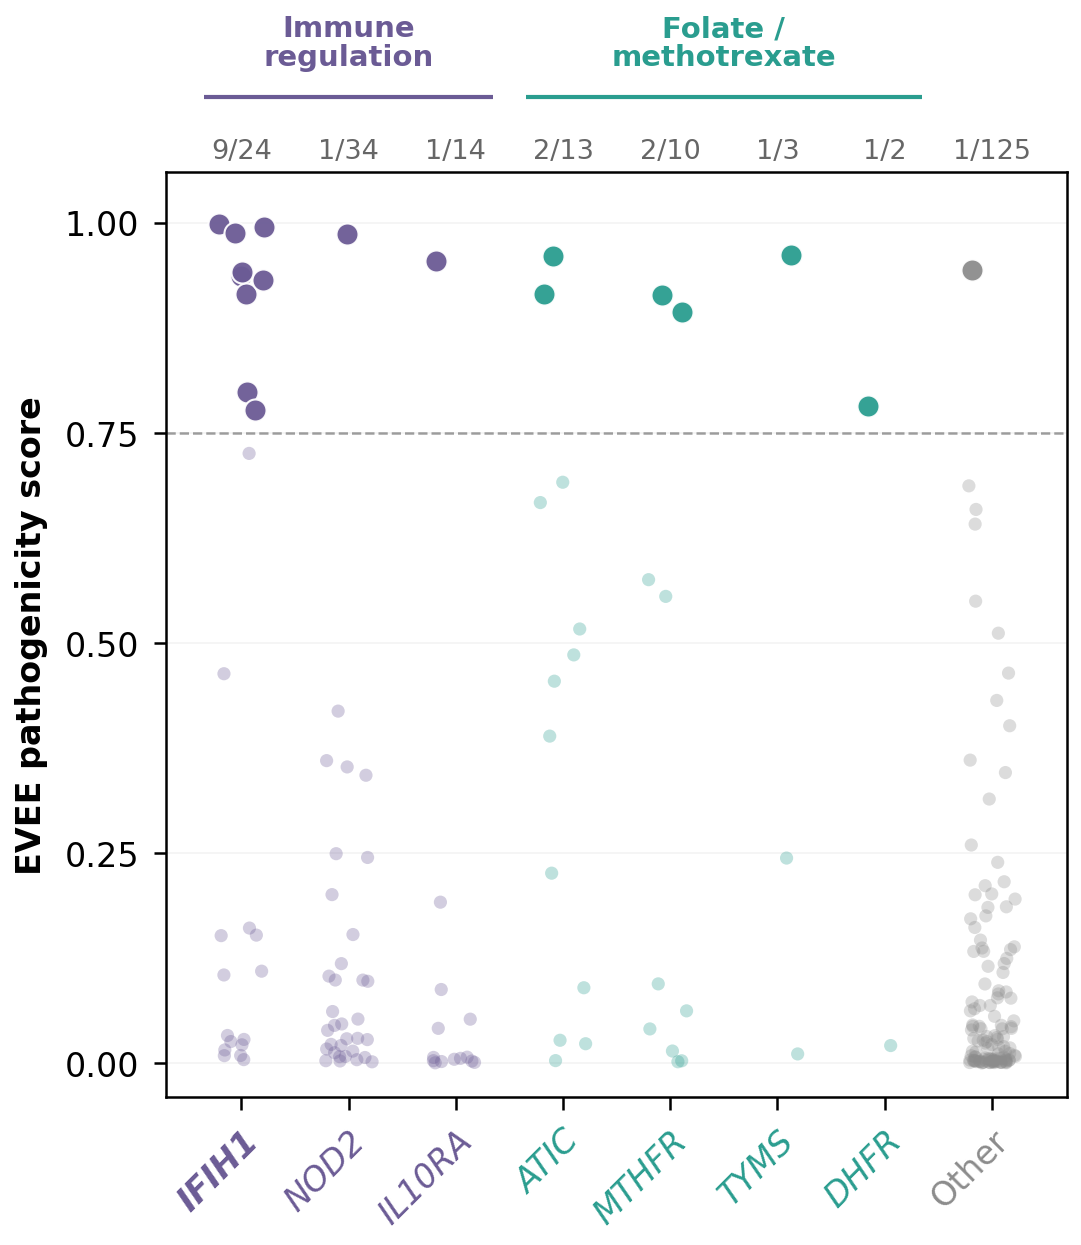
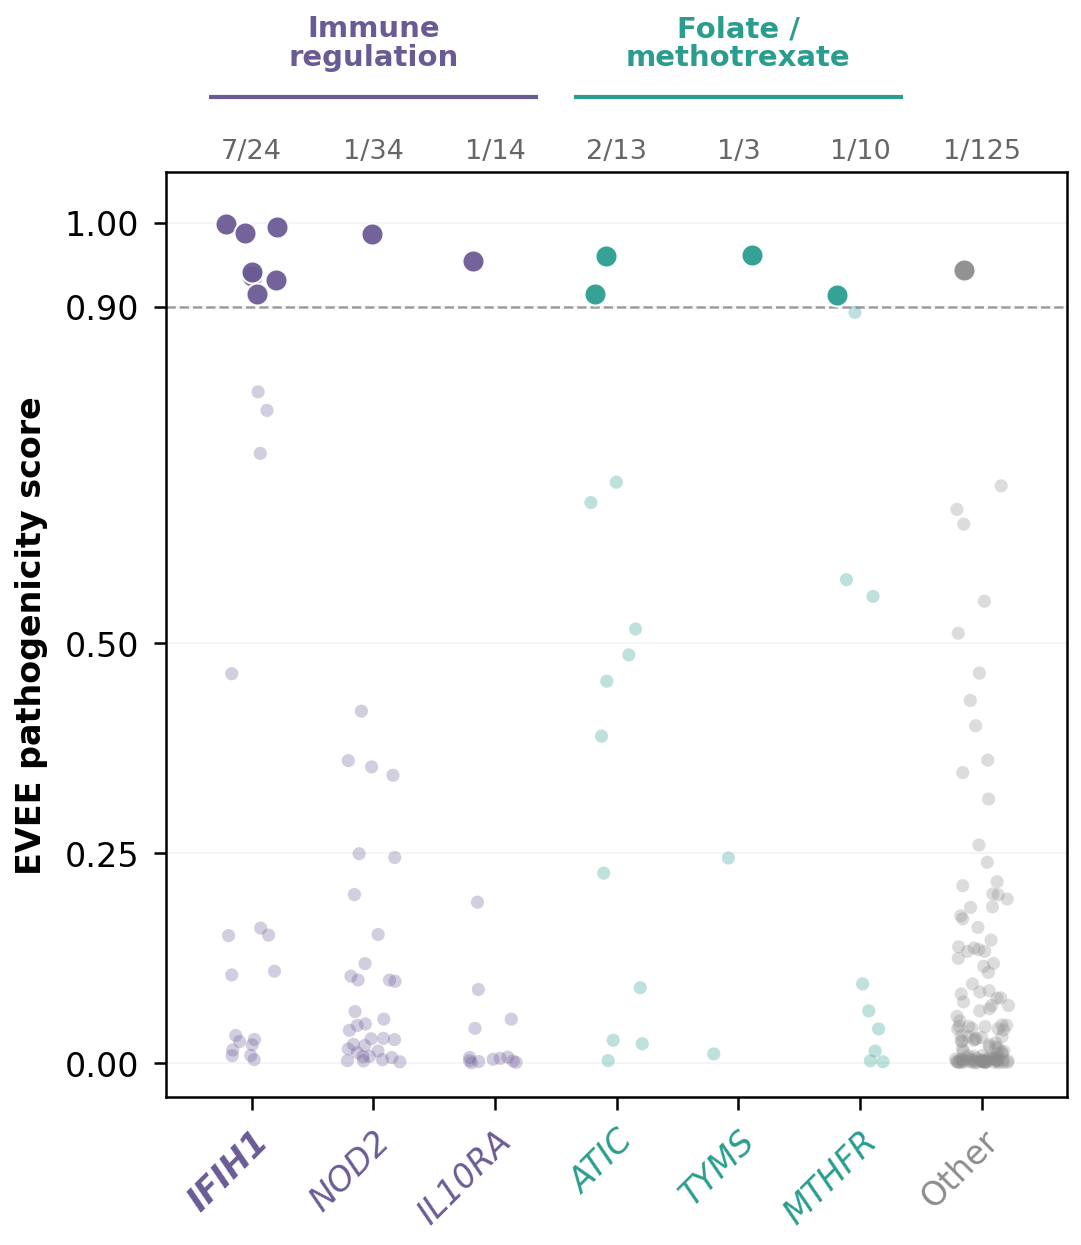
Supp RA figure: raise high-priority threshold 0.75->0.90
Aligns the figure with the main-text >=0.90 claim (14 candidates, clean
separation from benign/likely-benign). DHFR drops out (no >=0.90 variant).

diff --git a/scripts/supplement/supfig_ra_cohort.py b/scripts/supplement/supfig_ra_cohort.py
@@ -4,13 +4,13 @@ Supplementary Figure — gene-level distribution of EVEE pathogenicity scores in
 
 Vertical (portrait) dot plot: pathogenicity score on y-axis, genes as columns.
 Named pathway genes get individual columns; everything else collapses into a
-single "Other" column. High-priority variants (≥0.75) drawn as saturated dots
+single "Other" column. High-priority variants (≥0.90) drawn as saturated dots
 with white edges; below-threshold variants as translucent dots.
 
 Filter (matches the Mayo abstract numbers exactly):
   - source: 299 rare variants (gnomAD AF ≤1%) from the Mayo RA cohort
   - candidate_bin == "uncertain_conflicting_or_unannotated" (n=225)
-  - EVEE pathogenicity ≥ 0.75 → 18 variants
+  - EVEE score ≥ 0.90 → 14 variants (no benign/likely-benign variant exceeds 0.90)
 
 Pathway groupings:
   - Immune regulation:           IFIH1, NOD2, IL10RA
@@ -43,7 +43,7 @@ from theme.theme import (
 ARTIFACTS = ROOT / "artifacts"
 OUT_STEM = ROOT / "figures" / "supplement" / "supfig_ra_cohort"
 
-THRESHOLD = 0.75
+THRESHOLD = 0.90
 UNCERTAIN_BIN = "uncertain_conflicting_or_unannotated"
 
 INNATE_IMMUNE = ["IFIH1", "NOD2", "IL10RA"]
